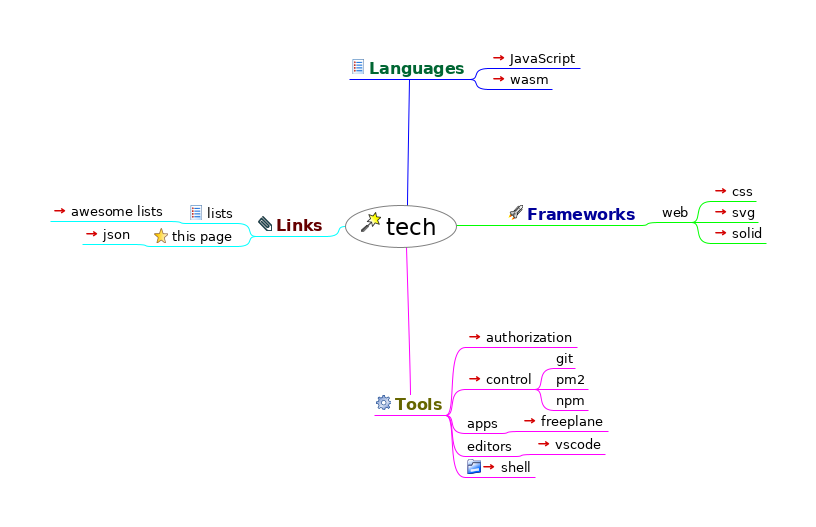
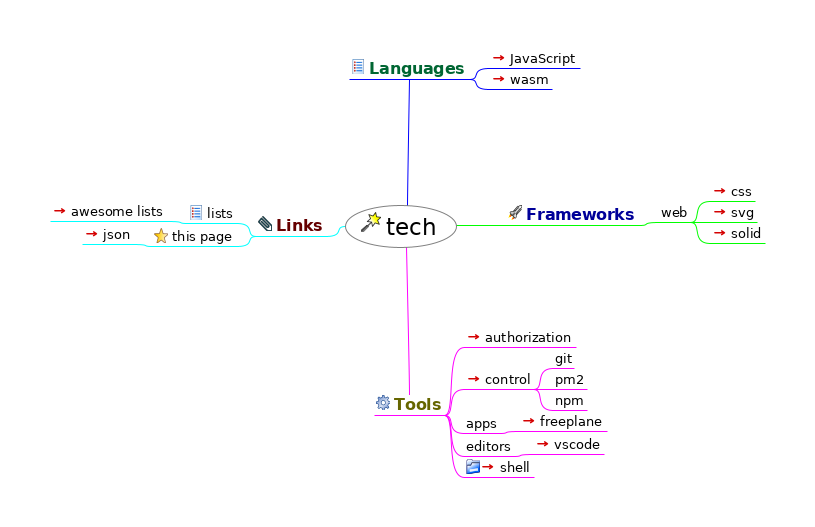
add solid mm

diff --git a/index.html b/index.html
@@ -27,22 +27,22 @@
 <area shape="rect" href="#FMID_176155545FM" alt="Languages" title="Languages" coords="349,59,470,79" />
 <area shape="rect" href="../JavaScript/index.html" alt="JavaScript" title="JavaScript" coords="489,50,580,68" />
 <area shape="rect" href="languages/wasm/index.html" alt="wasm" title="wasm" coords="489,71,552,89" />
-<area shape="rect" href="#FMID_527312312FM" alt="Frameworks" title="Frameworks" coords="506,205,641,225" />
-<area shape="rect" href="#FMID_532002583FM" alt="web" title="web" coords="660,204,692,222" />
-<area shape="rect" href="css.html" alt="css" title="css" coords="711,183,756,201" />
-<area shape="rect" href="https://www.w3schools.com/graphics/svg_reference.asp" alt="svg" title="svg" coords="711,204,758,222" />
-<area shape="rect" href="https://solid.mit.edu/" alt="solid" title="solid" coords="711,225,766,243" />
-<area shape="rect" href="#FMID_1810859973FM" alt="Tools" title="Tools" coords="374,395,446,415" />
-<area shape="rect" href="authorization/index.html" alt="authorization" title="authorization" coords="465,329,577,347" />
-<area shape="rect" href="control/index.html" alt="control" title="control" coords="465,371,535,389" />
-<area shape="rect" href="#FMID_1536156446FM" alt="git" title="git" coords="554,350,575,368" />
-<area shape="rect" href="#FMID_901084502FM" alt="pm2" title="pm2" coords="554,371,588,389" />
-<area shape="rect" href="#FMID_677687213FM" alt="npm" title="npm" coords="554,392,588,410" />
-<area shape="rect" href="#FMID_453742222FM" alt="apps" title="apps" coords="465,415,501,433" />
-<area shape="rect" href="freeplane.html" alt="freeplane" title="freeplane" coords="520,413,608,431" />
-<area shape="rect" href="#FMID_1019017499FM" alt="editors" title="editors" coords="465,438,515,456" />
-<area shape="rect" href="https://code.visualstudio.com/" alt="vscode" title="vscode" coords="534,436,605,454" />
-<area shape="rect" href="shell/index.html" alt="shell" title="shell" coords="465,459,535,477" />
+<area shape="rect" href="#FMID_527312312FM" alt="Frameworks" title="Frameworks" coords="506,205,640,225" />
+<area shape="rect" href="#FMID_532002583FM" alt="web" title="web" coords="659,204,691,222" />
+<area shape="rect" href="css.html" alt="css" title="css" coords="710,183,755,201" />
+<area shape="rect" href="https://www.w3schools.com/graphics/svg_reference.asp" alt="svg" title="svg" coords="710,204,757,222" />
+<area shape="rect" href="../solid/index.html" alt="solid" title="solid" coords="710,225,765,243" />
+<area shape="rect" href="#FMID_1810859973FM" alt="Tools" title="Tools" coords="374,395,445,415" />
+<area shape="rect" href="authorization/index.html" alt="authorization" title="authorization" coords="464,329,576,347" />
+<area shape="rect" href="control/index.html" alt="control" title="control" coords="464,371,534,389" />
+<area shape="rect" href="#FMID_1536156446FM" alt="git" title="git" coords="553,350,574,368" />
+<area shape="rect" href="#FMID_901084502FM" alt="pm2" title="pm2" coords="553,371,587,389" />
+<area shape="rect" href="#FMID_677687213FM" alt="npm" title="npm" coords="553,392,587,410" />
+<area shape="rect" href="#FMID_453742222FM" alt="apps" title="apps" coords="464,415,500,433" />
+<area shape="rect" href="freeplane.html" alt="freeplane" title="freeplane" coords="519,413,607,431" />
+<area shape="rect" href="#FMID_1019017499FM" alt="editors" title="editors" coords="464,438,514,456" />
+<area shape="rect" href="https://code.visualstudio.com/" alt="vscode" title="vscode" coords="533,436,604,454" />
+<area shape="rect" href="shell/index.html" alt="shell" title="shell" coords="464,459,534,477" />
 <area shape="rect" href="#FMID_777477932FM" alt="Links" title="Links" coords="256,216,326,236" />
 <area shape="rect" href="#FMID_21985093FM" alt="lists" title="lists" coords="187,205,237,223" />
 <area shape="rect" href="https://getawesomeness.herokuapp.com/get/js" alt="awesome lists" title="awesome lists" coords="50,203,168,221" />
@@ -50,5 +50,5 @@
 <area shape="rect" href="index.json" alt="json" title="json" coords="82,226,133,244" />
 </map>
 
-<div class="node"><img src="index.html_files/hide.png" class="hideshow" alt="hide" onClick="toggle(&quot;N65543&quot;)" id="imgN65543" /><img src="index.html_files/icons/wizard.svg" alt="wizard" /> <a id="FMID_237352286FM" /><div class="nodecontent" style="color:#000000;font-size:150%;">tech</div><div class="content" id="N65543"><div class="node"><img src="index.html_files/hide.png" class="hideshow" alt="hide" onClick="toggle(&quot;N66444&quot;)" id="imgN66444" /><img src="index.html_files/icons/list.svg" alt="list" /> <a id="FMID_176155545FM" /><div class="nodecontent" style="color:#006633;font-size:100%;font-weight:bold;">Languages</div><div class="content" id="N66444"><div class="node"><img src="index.html_files/leaf.png" class="hideshow" alt="leaf" /><a id="FMID_546595456FM" /><div class="nodecontent" style="color:#000000;font-size:83%;"><a href="../JavaScript/index.html">JavaScript</a> <a href="../JavaScript/index.html"><img src="index.html_files/ilink.png" alt="User Link" style="border-width:0" /></a></div></div><div class="node"><img src="index.html_files/leaf.png" class="hideshow" alt="leaf" /><a id="FMID_1992588014FM" /><div class="nodecontent" style="color:#000000;font-size:83%;"><a href="languages/wasm/index.html">wasm</a> <a href="languages/wasm/index.html"><img src="index.html_files/ilink.png" alt="User Link" style="border-width:0" /></a></div></div></div></div><div class="node"><img src="index.html_files/hide.png" class="hideshow" alt="hide" onClick="toggle(&quot;N66562&quot;)" id="imgN66562" /><img src="index.html_files/icons/launch.svg" alt="launch" /> <a id="FMID_527312312FM" /><div class="nodecontent" style="color:#000099;font-size:100%;font-weight:bold;">Frameworks</div><div class="content" id="N66562"><div class="node"><img src="index.html_files/hide.png" class="hideshow" alt="hide" onClick="toggle(&quot;N66605&quot;)" id="imgN66605" /><a id="FMID_532002583FM" /><div class="nodecontent" style="color:#000000;font-size:83%;">web</div><div class="content" id="N66605"><div class="node"><img src="index.html_files/leaf.png" class="hideshow" alt="leaf" /><a id="FMID_1846113849FM" /><div class="nodecontent" style="color:#000000;font-size:83%;"><a href="css.html">css</a> <a href="css.html"><img src="index.html_files/ilink.png" alt="User Link" style="border-width:0" /></a></div></div><div class="node"><img src="index.html_files/leaf.png" class="hideshow" alt="leaf" /><a id="FMID_428457042FM" /><div class="nodecontent" style="color:#000000;font-size:83%;"><a href="https://www.w3schools.com/graphics/svg_reference.asp">svg</a> <a href="https://www.w3schools.com/graphics/svg_reference.asp"><img src="index.html_files/ilink.png" alt="User Link" style="border-width:0" /></a></div></div><div class="node"><img src="index.html_files/leaf.png" class="hideshow" alt="leaf" /><a id="FMID_1070141955FM" /><div class="nodecontent" style="color:#000000;font-size:83%;"><a href="https://solid.mit.edu/">solid</a> <a href="https://solid.mit.edu/"><img src="index.html_files/ilink.png" alt="User Link" style="border-width:0" /></a></div></div></div></div></div></div><div class="node"><img src="index.html_files/hide.png" class="hideshow" alt="hide" onClick="toggle(&quot;N66753&quot;)" id="imgN66753" /><img src="index.html_files/icons/executable.svg" alt="executable" /> <a id="FMID_1810859973FM" /><div class="nodecontent" style="color:#666600;font-size:100%;font-weight:bold;">Tools</div><div class="content" id="N66753"><div class="node"><img src="index.html_files/leaf.png" class="hideshow" alt="leaf" /><a id="FMID_1568925180FM" /><div class="nodecontent" style="color:#000000;font-size:83%;"><a href="authorization/index.html">authorization</a> <a href="authorization/index.html"><img src="index.html_files/ilink.png" alt="User Link" style="border-width:0" /></a></div></div><div class="node"><img src="index.html_files/hide.png" class="hideshow" alt="hide" onClick="toggle(&quot;N66833&quot;)" id="imgN66833" /><a id="FMID_1041005677FM" /><div class="nodecontent" style="color:#000000;font-size:83%;"><a href="control/index.html">control</a> <a href="control/index.html"><img src="index.html_files/ilink.png" alt="User Link" style="border-width:0" /></a></div><div class="content" id="N66833"><div class="node"><img src="index.html_files/leaf.png" class="hideshow" alt="leaf" /><a id="FMID_1536156446FM" /><div class="nodecontent" style="color:#000000;font-size:83%;">git</div></div><div class="node"><img src="index.html_files/leaf.png" class="hideshow" alt="leaf" /><a id="FMID_901084502FM" /><div class="nodecontent" style="color:#000000;font-size:83%;">pm2</div></div><div class="node"><img src="index.html_files/leaf.png" class="hideshow" alt="leaf" /><a id="FMID_677687213FM" /><div class="nodecontent" style="color:#000000;font-size:83%;">npm</div></div></div></div><div class="node"><img src="index.html_files/hide.png" class="hideshow" alt="hide" onClick="toggle(&quot;N66978&quot;)" id="imgN66978" /><a id="FMID_453742222FM" /><div class="nodecontent" style="color:#000000;font-size:83%;">apps</div><div class="content" id="N66978"><div class="node"><img src="index.html_files/leaf.png" class="hideshow" alt="leaf" /><a id="FMID_756649779FM" /><div class="nodecontent" style="color:#000000;font-size:83%;"><a href="freeplane.html">freeplane</a> <a href="freeplane.html"><img src="index.html_files/ilink.png" alt="User Link" style="border-width:0" /></a></div></div></div></div><div class="node"><img src="index.html_files/hide.png" class="hideshow" alt="hide" onClick="toggle(&quot;N67051&quot;)" id="imgN67051" /><a id="FMID_1019017499FM" /><div class="nodecontent" style="color:#000000;font-size:83%;">editors</div><div class="content" id="N67051"><div class="node"><img src="index.html_files/leaf.png" class="hideshow" alt="leaf" /><a id="FMID_847676993FM" /><div class="nodecontent" style="color:#000000;font-size:83%;"><a href="https://code.visualstudio.com/">vscode</a> <a href="https://code.visualstudio.com/"><img src="index.html_files/ilink.png" alt="User Link" style="border-width:0" /></a></div></div></div></div><div class="node"><img src="index.html_files/leaf.png" class="hideshow" alt="leaf" /><img src="index.html_files/icons/folder.svg" alt="folder" /> <a id="FMID_1968717210FM" /><div class="nodecontent" style="color:#000000;font-size:83%;"><a href="shell/index.html">shell</a> <a href="shell/index.html"><img src="index.html_files/ilink.png" alt="User Link" style="border-width:0" /></a></div></div></div></div><div class="node"><img src="index.html_files/hide.png" class="hideshow" alt="hide" onClick="toggle(&quot;N67167&quot;)" id="imgN67167" /><img src="index.html_files/icons/attach.svg" alt="attach" /> <a id="FMID_777477932FM" /><div class="nodecontent" style="color:#660000;font-size:100%;font-weight:bold;">Links</div><div class="content" id="N67167"><div class="node"><img src="index.html_files/hide.png" class="hideshow" alt="hide" onClick="toggle(&quot;N67208&quot;)" id="imgN67208" /><img src="index.html_files/icons/list.svg" alt="list" /> <a id="FMID_21985093FM" /><div class="nodecontent" style="color:#000000;font-size:83%;">lists</div><div class="content" id="N67208"><div class="node"><img src="index.html_files/leaf.png" class="hideshow" alt="leaf" /><a id="FMID_588856980FM" /><div class="nodecontent" style="color:#000000;font-size:83%;"><a href="https://getawesomeness.herokuapp.com/get/js">awesome lists</a> <a href="https://getawesomeness.herokuapp.com/get/js"><img src="index.html_files/ilink.png" alt="User Link" style="border-width:0" /></a></div></div></div></div><div class="node"><img src="index.html_files/hide.png" class="hideshow" alt="hide" onClick="toggle(&quot;N67286&quot;)" id="imgN67286" /><img src="index.html_files/icons/bookmark.svg" alt="bookmark" /> <a id="FMID_117142409FM" /><div class="nodecontent" style="color:#000000;font-size:83%;">this page</div><div class="content" id="N67286"><div class="node"><img src="index.html_files/leaf.png" class="hideshow" alt="leaf" /><a id="FMID_485260235FM" /><div class="nodecontent" style="color:#000000;font-size:83%;"><a href="index.json">json</a> <a href="index.json"><img src="index.html_files/ilink.png" alt="User Link" style="border-width:0" /></a></div></div></div></div></div></div></div></div>
+<div class="node"><img src="index.html_files/hide.png" class="hideshow" alt="hide" onClick="toggle(&quot;N65543&quot;)" id="imgN65543" /><img src="index.html_files/icons/wizard.svg" alt="wizard" /> <a id="FMID_237352286FM" /><div class="nodecontent" style="color:#000000;font-size:150%;">tech</div><div class="content" id="N65543"><div class="node"><img src="index.html_files/hide.png" class="hideshow" alt="hide" onClick="toggle(&quot;N66444&quot;)" id="imgN66444" /><img src="index.html_files/icons/list.svg" alt="list" /> <a id="FMID_176155545FM" /><div class="nodecontent" style="color:#006633;font-size:100%;font-weight:bold;">Languages</div><div class="content" id="N66444"><div class="node"><img src="index.html_files/leaf.png" class="hideshow" alt="leaf" /><a id="FMID_546595456FM" /><div class="nodecontent" style="color:#000000;font-size:83%;"><a href="../JavaScript/index.html">JavaScript</a> <a href="../JavaScript/index.html"><img src="index.html_files/ilink.png" alt="User Link" style="border-width:0" /></a></div></div><div class="node"><img src="index.html_files/leaf.png" class="hideshow" alt="leaf" /><a id="FMID_1992588014FM" /><div class="nodecontent" style="color:#000000;font-size:83%;"><a href="languages/wasm/index.html">wasm</a> <a href="languages/wasm/index.html"><img src="index.html_files/ilink.png" alt="User Link" style="border-width:0" /></a></div></div></div></div><div class="node"><img src="index.html_files/hide.png" class="hideshow" alt="hide" onClick="toggle(&quot;N66562&quot;)" id="imgN66562" /><img src="index.html_files/icons/launch.svg" alt="launch" /> <a id="FMID_527312312FM" /><div class="nodecontent" style="color:#000099;font-size:100%;font-weight:bold;">Frameworks</div><div class="content" id="N66562"><div class="node"><img src="index.html_files/hide.png" class="hideshow" alt="hide" onClick="toggle(&quot;N66605&quot;)" id="imgN66605" /><a id="FMID_532002583FM" /><div class="nodecontent" style="color:#000000;font-size:83%;">web</div><div class="content" id="N66605"><div class="node"><img src="index.html_files/leaf.png" class="hideshow" alt="leaf" /><a id="FMID_1846113849FM" /><div class="nodecontent" style="color:#000000;font-size:83%;"><a href="css.html">css</a> <a href="css.html"><img src="index.html_files/ilink.png" alt="User Link" style="border-width:0" /></a></div></div><div class="node"><img src="index.html_files/leaf.png" class="hideshow" alt="leaf" /><a id="FMID_428457042FM" /><div class="nodecontent" style="color:#000000;font-size:83%;"><a href="https://www.w3schools.com/graphics/svg_reference.asp">svg</a> <a href="https://www.w3schools.com/graphics/svg_reference.asp"><img src="index.html_files/ilink.png" alt="User Link" style="border-width:0" /></a></div></div><div class="node"><img src="index.html_files/leaf.png" class="hideshow" alt="leaf" /><a id="FMID_1070141955FM" /><div class="nodecontent" style="color:#000000;font-size:83%;"><a href="../solid/index.html">solid</a> <a href="../solid/index.html"><img src="index.html_files/ilink.png" alt="User Link" style="border-width:0" /></a></div></div></div></div></div></div><div class="node"><img src="index.html_files/hide.png" class="hideshow" alt="hide" onClick="toggle(&quot;N66753&quot;)" id="imgN66753" /><img src="index.html_files/icons/executable.svg" alt="executable" /> <a id="FMID_1810859973FM" /><div class="nodecontent" style="color:#666600;font-size:100%;font-weight:bold;">Tools</div><div class="content" id="N66753"><div class="node"><img src="index.html_files/leaf.png" class="hideshow" alt="leaf" /><a id="FMID_1568925180FM" /><div class="nodecontent" style="color:#000000;font-size:83%;"><a href="authorization/index.html">authorization</a> <a href="authorization/index.html"><img src="index.html_files/ilink.png" alt="User Link" style="border-width:0" /></a></div></div><div class="node"><img src="index.html_files/hide.png" class="hideshow" alt="hide" onClick="toggle(&quot;N66833&quot;)" id="imgN66833" /><a id="FMID_1041005677FM" /><div class="nodecontent" style="color:#000000;font-size:83%;"><a href="control/index.html">control</a> <a href="control/index.html"><img src="index.html_files/ilink.png" alt="User Link" style="border-width:0" /></a></div><div class="content" id="N66833"><div class="node"><img src="index.html_files/leaf.png" class="hideshow" alt="leaf" /><a id="FMID_1536156446FM" /><div class="nodecontent" style="color:#000000;font-size:83%;">git</div></div><div class="node"><img src="index.html_files/leaf.png" class="hideshow" alt="leaf" /><a id="FMID_901084502FM" /><div class="nodecontent" style="color:#000000;font-size:83%;">pm2</div></div><div class="node"><img src="index.html_files/leaf.png" class="hideshow" alt="leaf" /><a id="FMID_677687213FM" /><div class="nodecontent" style="color:#000000;font-size:83%;">npm</div></div></div></div><div class="node"><img src="index.html_files/hide.png" class="hideshow" alt="hide" onClick="toggle(&quot;N66978&quot;)" id="imgN66978" /><a id="FMID_453742222FM" /><div class="nodecontent" style="color:#000000;font-size:83%;">apps</div><div class="content" id="N66978"><div class="node"><img src="index.html_files/leaf.png" class="hideshow" alt="leaf" /><a id="FMID_756649779FM" /><div class="nodecontent" style="color:#000000;font-size:83%;"><a href="freeplane.html">freeplane</a> <a href="freeplane.html"><img src="index.html_files/ilink.png" alt="User Link" style="border-width:0" /></a></div></div></div></div><div class="node"><img src="index.html_files/hide.png" class="hideshow" alt="hide" onClick="toggle(&quot;N67051&quot;)" id="imgN67051" /><a id="FMID_1019017499FM" /><div class="nodecontent" style="color:#000000;font-size:83%;">editors</div><div class="content" id="N67051"><div class="node"><img src="index.html_files/leaf.png" class="hideshow" alt="leaf" /><a id="FMID_847676993FM" /><div class="nodecontent" style="color:#000000;font-size:83%;"><a href="https://code.visualstudio.com/">vscode</a> <a href="https://code.visualstudio.com/"><img src="index.html_files/ilink.png" alt="User Link" style="border-width:0" /></a></div></div></div></div><div class="node"><img src="index.html_files/leaf.png" class="hideshow" alt="leaf" /><img src="index.html_files/icons/folder.svg" alt="folder" /> <a id="FMID_1968717210FM" /><div class="nodecontent" style="color:#000000;font-size:83%;"><a href="shell/index.html">shell</a> <a href="shell/index.html"><img src="index.html_files/ilink.png" alt="User Link" style="border-width:0" /></a></div></div></div></div><div class="node"><img src="index.html_files/hide.png" class="hideshow" alt="hide" onClick="toggle(&quot;N67167&quot;)" id="imgN67167" /><img src="index.html_files/icons/attach.svg" alt="attach" /> <a id="FMID_777477932FM" /><div class="nodecontent" style="color:#660000;font-size:100%;font-weight:bold;">Links</div><div class="content" id="N67167"><div class="node"><img src="index.html_files/hide.png" class="hideshow" alt="hide" onClick="toggle(&quot;N67208&quot;)" id="imgN67208" /><img src="index.html_files/icons/list.svg" alt="list" /> <a id="FMID_21985093FM" /><div class="nodecontent" style="color:#000000;font-size:83%;">lists</div><div class="content" id="N67208"><div class="node"><img src="index.html_files/leaf.png" class="hideshow" alt="leaf" /><a id="FMID_588856980FM" /><div class="nodecontent" style="color:#000000;font-size:83%;"><a href="https://getawesomeness.herokuapp.com/get/js">awesome lists</a> <a href="https://getawesomeness.herokuapp.com/get/js"><img src="index.html_files/ilink.png" alt="User Link" style="border-width:0" /></a></div></div></div></div><div class="node"><img src="index.html_files/hide.png" class="hideshow" alt="hide" onClick="toggle(&quot;N67286&quot;)" id="imgN67286" /><img src="index.html_files/icons/bookmark.svg" alt="bookmark" /> <a id="FMID_117142409FM" /><div class="nodecontent" style="color:#000000;font-size:83%;">this page</div><div class="content" id="N67286"><div class="node"><img src="index.html_files/leaf.png" class="hideshow" alt="leaf" /><a id="FMID_485260235FM" /><div class="nodecontent" style="color:#000000;font-size:83%;"><a href="index.json">json</a> <a href="index.json"><img src="index.html_files/ilink.png" alt="User Link" style="border-width:0" /></a></div></div></div></div></div></div></div></div>
 </body></html>

diff --git a/index.mm b/index.mm
@@ -79,7 +79,7 @@
 <node TEXT="web" ID="ID_532002583" CREATED="1571333469724" MODIFIED="1572063802934">
 <node TEXT="css" ID="ID_1846113849" CREATED="1571333474425" MODIFIED="1571333716551" LINK="css.mm"/>
 <node TEXT="svg" ID="ID_428457042" CREATED="1571334566267" MODIFIED="1571336723249" LINK="https://www.w3schools.com/graphics/svg_reference.asp"/>
-<node TEXT="solid" ID="ID_1070141955" CREATED="1572957566339" MODIFIED="1572957590106" LINK="https://solid.mit.edu/"/>
+<node TEXT="solid" ID="ID_1070141955" CREATED="1572957566339" MODIFIED="1573024605205" LINK="../solid/index.mm"/>
 </node>
 </node>
 <node TEXT="Tools" POSITION="right" ID="ID_1810859973" CREATED="1572063767900" MODIFIED="1572064386689" HGAP_QUANTITY="-62.4999977201224 pt" VSHIFT_QUANTITY="62.24999814480549 pt" COLOR="#666600">
